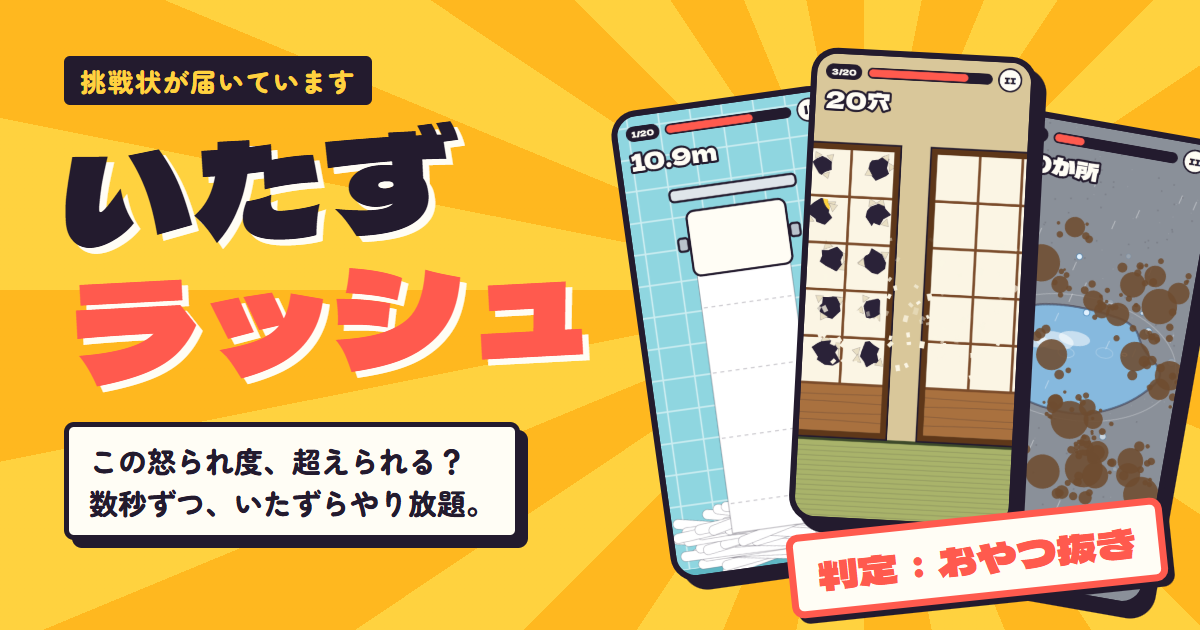
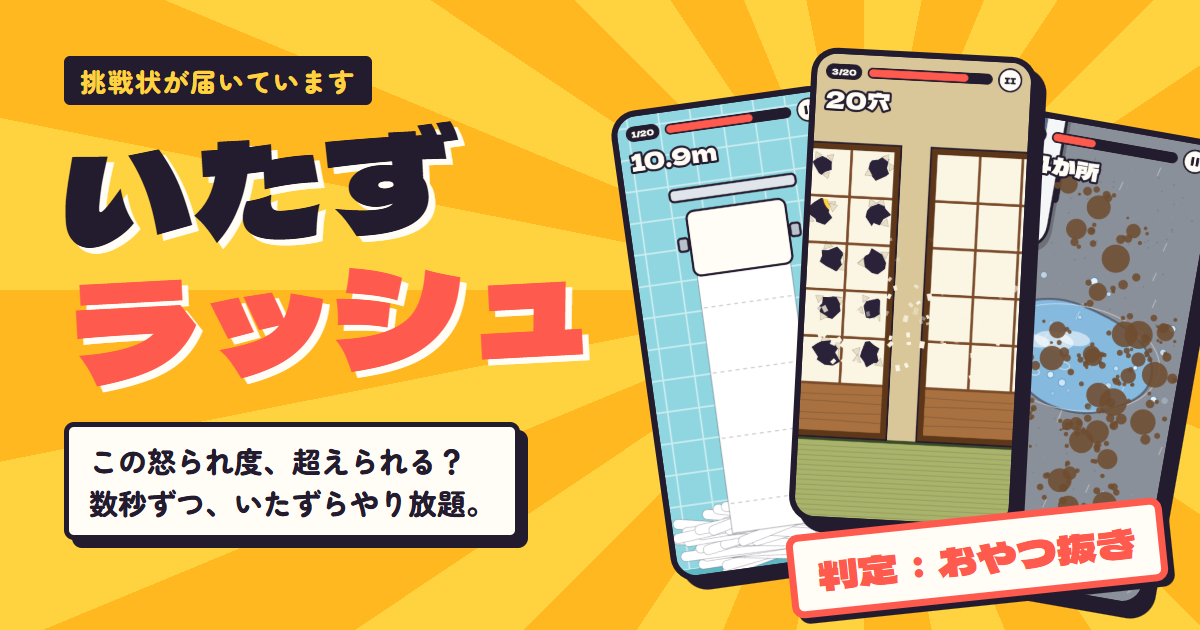
2周目以降のBGMをはっきり速く（1.25倍・1.4倍）、OGPの水たまりの画面を最新に

Changed region(s): [[0.8325, 0.181, 1.0, 0.8143], [0.9867, 0.2413, 1.0, 0.2714]]

diff --git a/index.html b/index.html
@@ -1849,7 +1849,7 @@ const N = NORMAL.length;
 const ROUNDS = 2;          // 周回モードの周回数（全ステージが揃ってから調整）
 const BONUS_RATE = 0.05;   // 無限モードで、1周目のあと各ステージの後に押すなボタンが割り込む確率
 // 周回ごと。4周目以降は最後の値。周回モード全体の録画が X の無料ユーザーの上限（140秒）に収まるよう、約136秒にしている
-const PLAY = [5, 4.5, 4], PROMPT = [0.8, 0.7, 0.65], FLASH = [0.8, 0.7, 0.65], RATE = [1, 1.1, 1.2];
+const PLAY = [5, 4.5, 4], PROMPT = [0.8, 0.7, 0.65], FLASH = [0.8, 0.7, 0.65], RATE = [1, 1.25, 1.4]; // RATE: BGMのテンポ倍率。周回が進むとはっきり速くして焦らせる
 const SITE = 'https://sakuichi.github.io/itazu-rush/';
 const add = (t, k, v) => { t[k] = (t[k] || 0) + v; };
 const mx = (t, k, v) => { t[k] = Math.max(t[k] || 0, v); }; // 1回のステージでの最高（図鑑の判定用）

diff --git a/HANDOFF.md b/HANDOFF.md
@@ -102,7 +102,7 @@
 
 - **周回モード**: 全10ステージを `ROUNDS = 2` 周（周ごとに順番をシャッフル。周の切れ目で同じステージが続かないようにしている）→ 最後に押すなボタンを1回 → 結果。全体で約2分15秒。
 - **無限モード**: 「やめて結果を見る」まで続く。1周目のあと、各ステージの後に `BONUS_RATE = 0.05`（5%）で押すなボタンが割り込む。2回続けては出ない。出たときはお題の前に「レア出現！」（周回モードでは「ボーナス！」）が出る。
-- 周回ごとの秒数: プレイ `PLAY=[5,4.5,4]`、お題 `PROMPT=[0.8,0.7,0.65]`、結果フラッシュ `FLASH=[0.8,0.7,0.65]`（2026-10-10 に、周回モードの録画を X の無料ユーザーの上限140秒に収めるため `[6,5,4]` `[1.0,0.8,0.65]` `[1.0,0.85,0.7]` から短縮。録画は約136秒）、BGMのテンポ倍率 `RATE=[1,1.1,1.2]`。4周目以降は最後の値のまま（無限モードの頭打ち）。
+- 周回ごとの秒数: プレイ `PLAY=[5,4.5,4]`、お題 `PROMPT=[0.8,0.7,0.65]`、結果フラッシュ `FLASH=[0.8,0.7,0.65]`（2026-10-10 に、周回モードの録画を X の無料ユーザーの上限140秒に収めるため `[6,5,4]` `[1.0,0.8,0.65]` `[1.0,0.85,0.7]` から短縮。録画は約136秒）、BGMのテンポ倍率 `RATE=[1,1.25,1.4]`（2026-10-10、2周目で焦るように `[1,1.1,1.2]` から上げた）。4周目以降は最後の値のまま（無限モードの頭打ち）。
 - HUD のステージ番号: 周回モードは「3/20」、無限モードは「12本目」、ボーナスは「ボーナス」「レア！」。
 - 中断: 右上の II、またはタブを離れたとき自動。「つづける／ここでやめて結果を見る／タイトルにもどる」と音のオンオフ。中断中は BGM と録画も止まる。
 - 音と録画のオンオフは `localStorage`（`itazurush-sound` `itazurush-rec`）に覚える。
